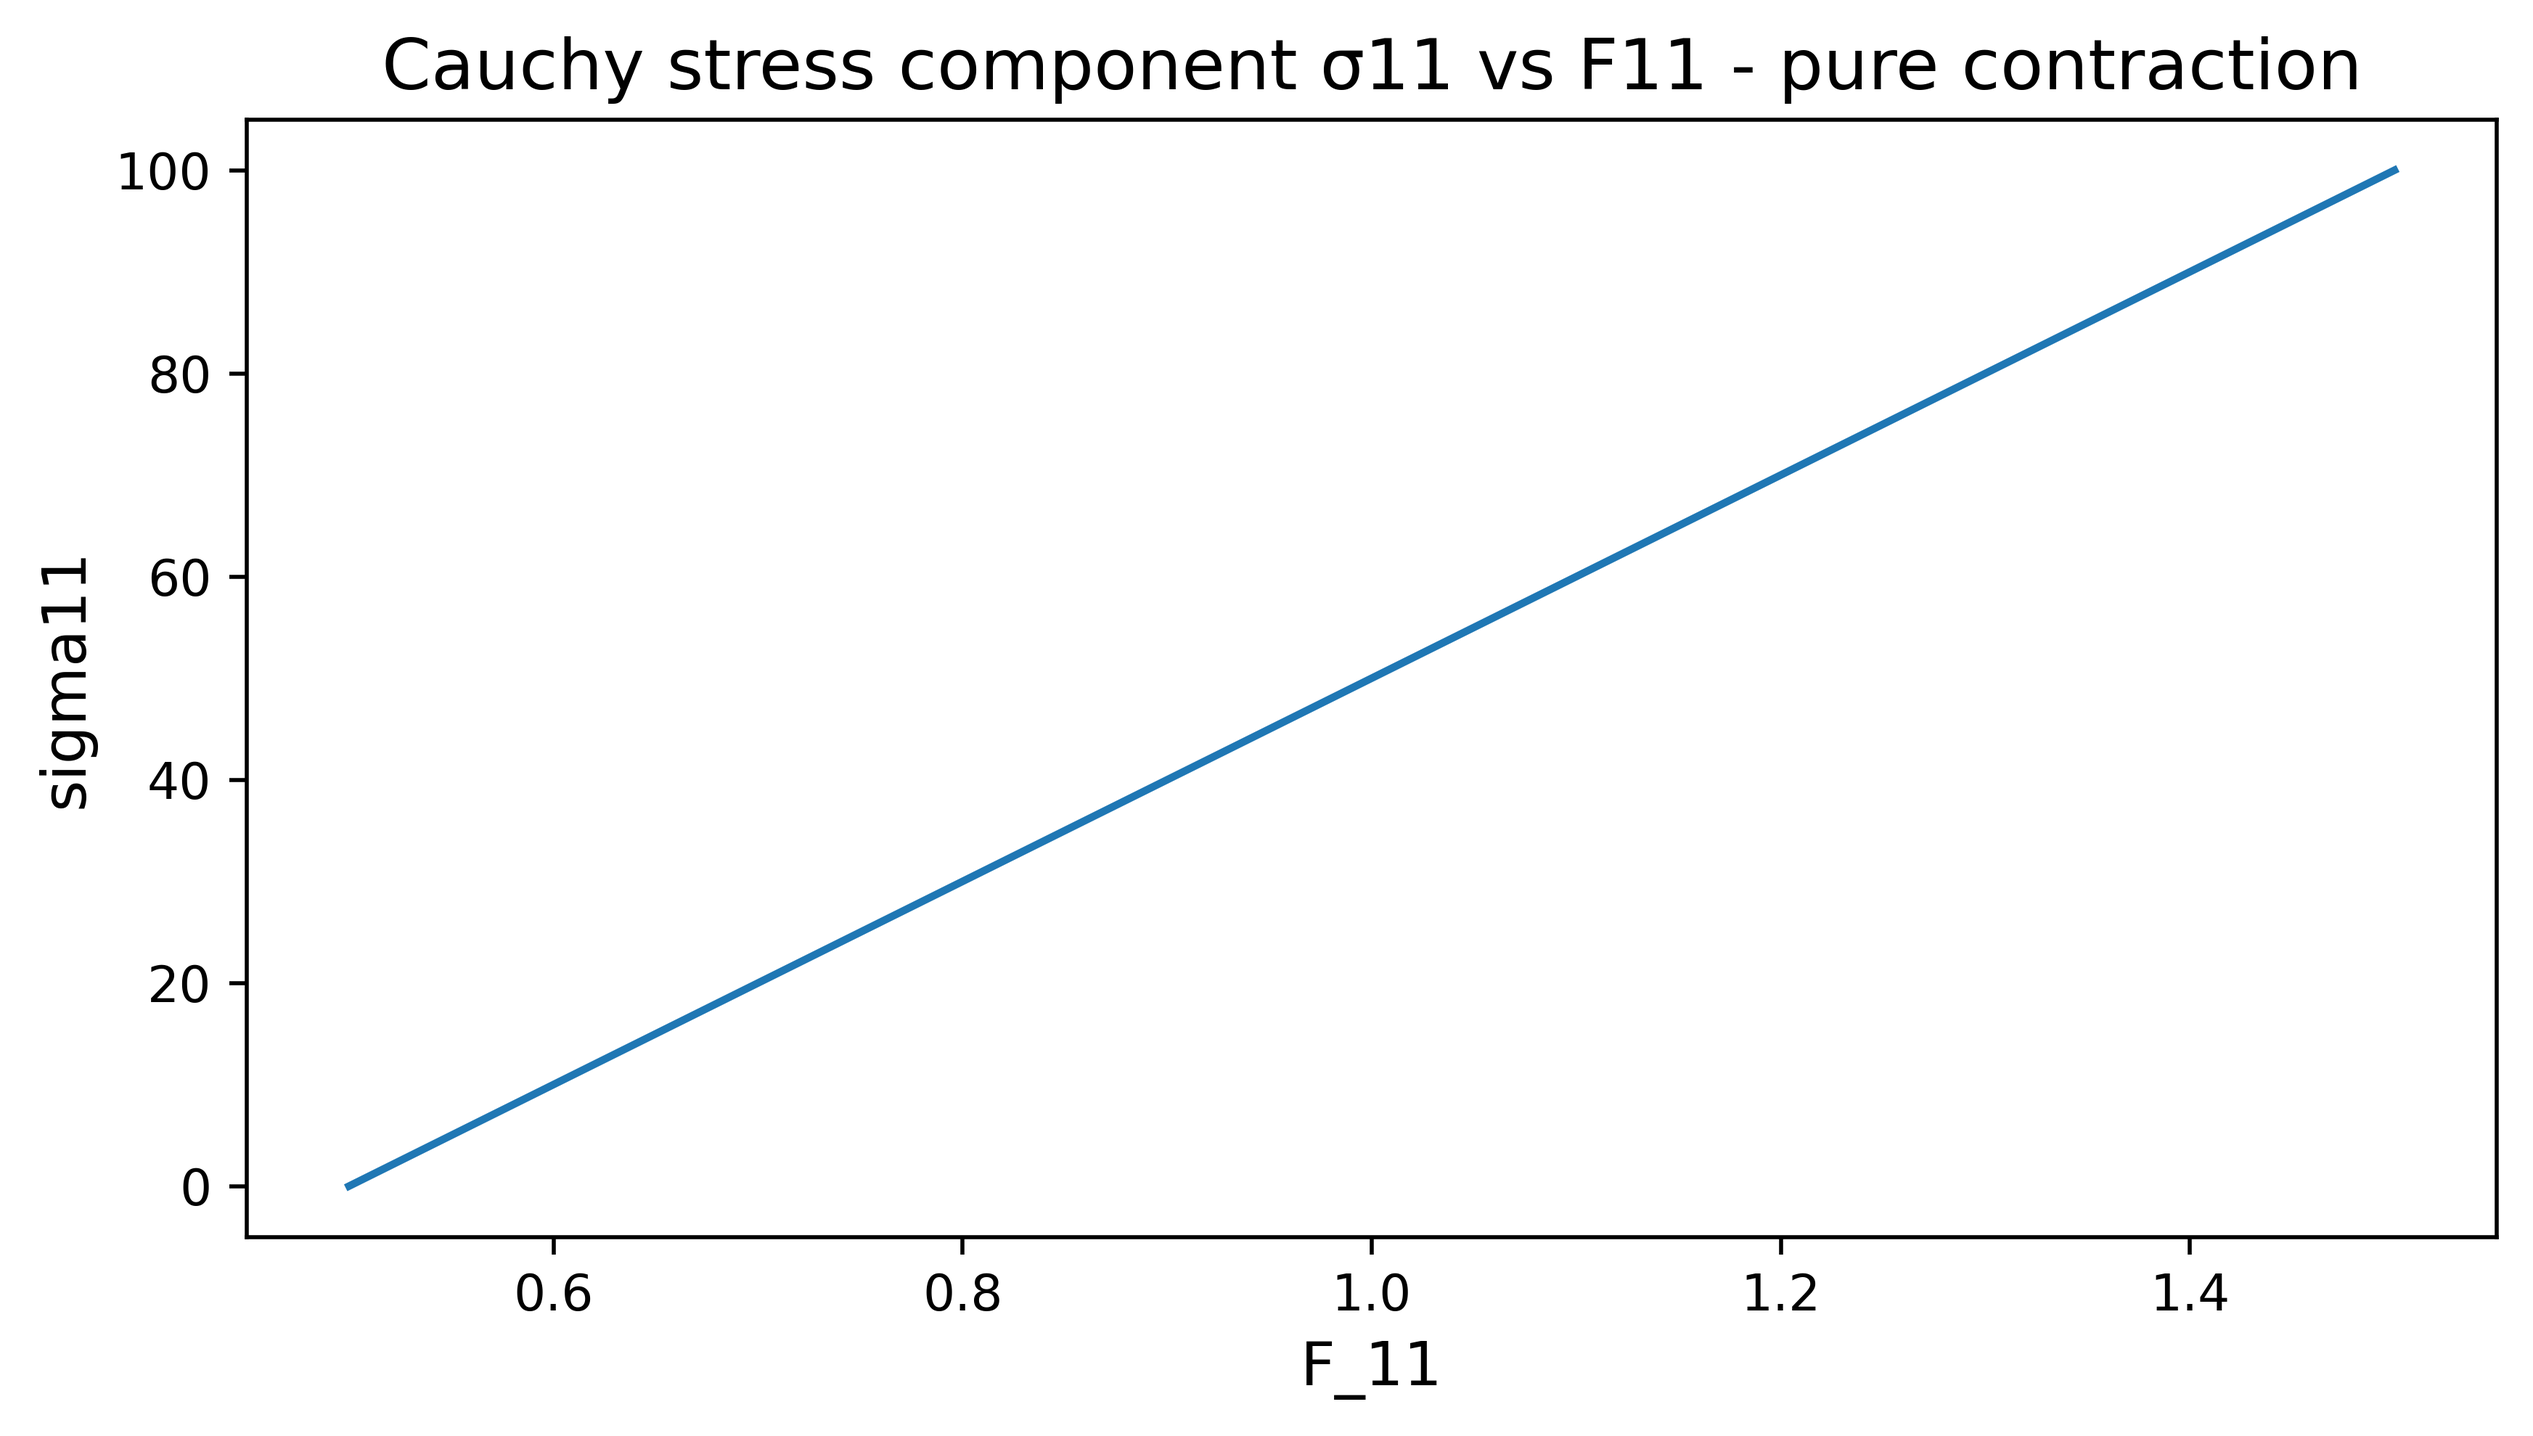
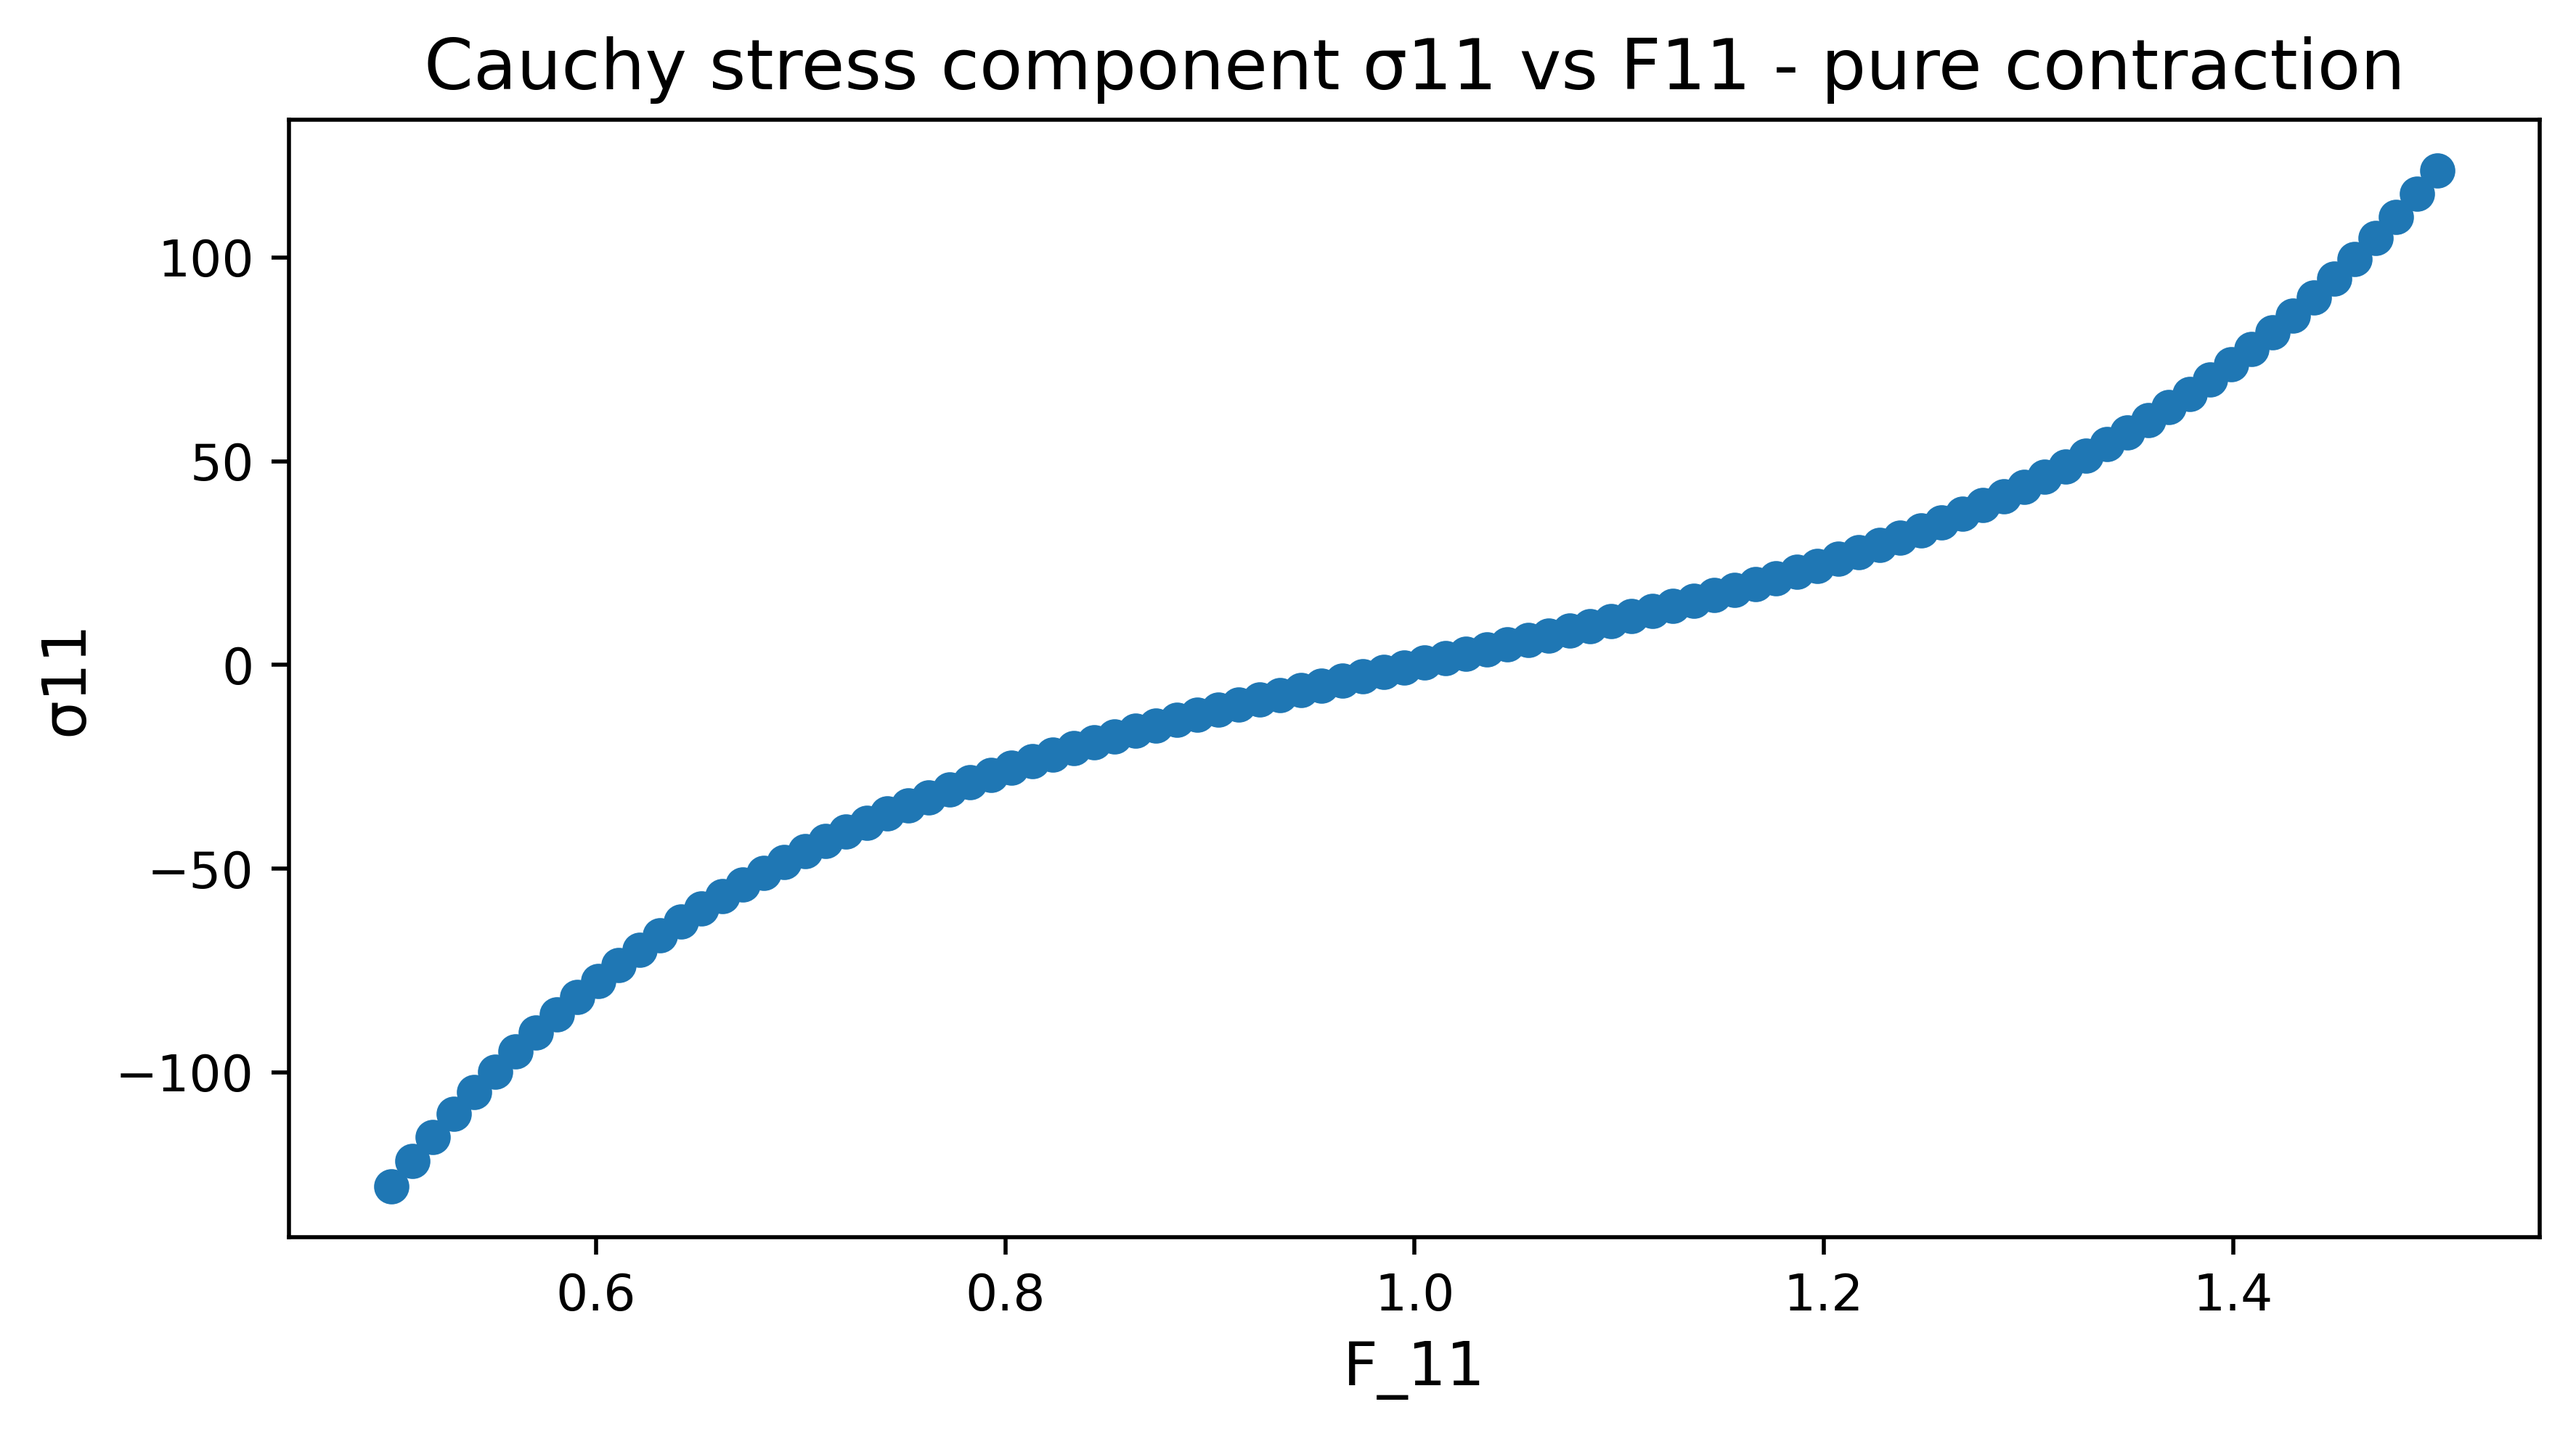
.

diff --git a/TME245/CA1a/testing_CA1a_TME245.py b/TME245/CA1a/testing_CA1a_TME245.py
@@ -575,7 +575,7 @@ new_subtask('Task 2 b) - Yeoh hyperelsatic material model')
 # ------------------------------------------------------------------
 F_11_min = 0.5
 F_11_max = 1.5
-F_11_list = np.linspace(F_11_min, F_11_max, 100)
+F_11_vals = np.linspace(F_11_min, F_11_max, 100)
 placeholder_sigma11_list = np.linspace(0, 100, 100)
 
 G_val = E_val / (2 * (1 + nu_val))
@@ -614,8 +614,8 @@ def generate_yeoh_functions():
     
     A = P.jacobian(Fv)
 
-    P_func = sp.lambdify((Fv), P, modules="numpy")
-    A_func = sp.lambdify((Fv), A, modules="numpy")
+    P_func = sp.lambdify(Fv, P, modules="numpy")
+    A_func = sp.lambdify(Fv, A, modules="numpy")
     
     return P_func, A_func
 
@@ -655,7 +655,7 @@ def generate_neohooke_functions():
     # Python indices: (0,0), (1,1), (0,1), (1,0)
     Pv = sp.Matrix([P[0,0], P[1,1], P[0,1], P[1,0]])
 
-    P_NH_func = sp.lambdify((Fv), Pv, modules='numpy')
+    P_func = sp.lambdify(Fv, Pv, modules='numpy')
 
     # MATLAB: dPvdFv=sym(dPvFv,[4,4], real )
     # Loop i=1:4 ... gradient(Pv(i),Fv)
@@ -663,9 +663,9 @@ def generate_neohooke_functions():
     # In SymPy, we can calculate the Jacobian matrix directly without a loop
     dPvdFv = Pv.jacobian(Fv)
 
-    dPdF_NH_func = sp.lambdify((Fv), dPvdFv, modules='numpy')
+    dPdF_func = sp.lambdify(Fv, dPvdFv, modules='numpy')
 
-    return P_NH_func, dPdF_NH_func
+    return P_func, dPdF_func
 
 # --- Usage Example ---
 # calc_P, calc_dPdF = generate_deformation_gradient_functions()
@@ -707,25 +707,106 @@ def generate_neohooke_functions():
 # ------------------------------------------------------------------
 # Generate the functions once
 # ------------------------------------------------------------------
+
+
 P_Yeoh_func, A_Yeoh_func = generate_yeoh_functions()
 P_Neo_func, A_Neo_func = generate_neohooke_functions()
 
 
+def get_material_parameters():
+    E = 20.0
+    nu = 0.45
+    
+    # Lame parameters
+    mu = E / (2 * (1 + nu))
+    lam = (E * nu) / ((1 + nu) * (1 - 2 * nu))
+    
+    # Yeoh parameters (derived from G=mu)
+    # c10 = G/2, c20 = -G/10, c30 = G/30
+    G = mu
+    c10 = G / 2.0
+    c20 = -G / 10.0
+    c30 = G / 30.0
+    
+    # Compressibility parameters
+    D1 = 0.02
+    D2 = 0.01
+    D3 = 0.01
+    
+    props_yeoh = {'c10': c10, 'c20': c20, 'c30': c30, 'D1': D1, 'D2': D2, 'D3': D3}
+    props_nh = {'mu': mu, 'lam': lam}
+    
+    return props_yeoh, props_nh
 
+def piola_kirchhoff_stress(F, props, model='yeoh'):
+    # Standard 3x3 kinematics
+    J = np.linalg.det(F)
+    C = F.T @ F
+    C_inv = np.linalg.inv(C)
+    I1 = np.trace(C)
+    
+    if model == 'yeoh':
+        c10, c20, c30 = props['c10'], props['c20'], props['c30']
+        D1, D2, D3 = props['D1'], props['D2'], props['D3']
+        
+        I1_bar = J**(-2/3) * I1
+        
+        # Deviatoric derivatives dW_dev/dI1_bar
+        dW_dI1bar = c10 + 2*c20*(I1_bar - 3) + 3*c30*(I1_bar - 3)**2
+        
+        # Volumetric derivative dW_vol/dJ
+        p = (2/D1)*(J-1) + (4/D2)*(J-1)**3 + (6/D3)*(J-1)**5
+        
+        # S = 2 * ( dev_term + vol_term )
+        # Note: term2 in previous code had factor (p/2) to cancel the 2. 
+        # Here we write it explicitly: S_vol = J * p * C^-1
+        
+        term1 = dW_dI1bar * J**(-2/3) * (np.eye(3) - (1/3)*I1*C_inv)
+        term2 = (p/2) * J * C_inv
+        
+        S = 2 * (term1 + term2)
+        
+    elif model == 'neohooke':
+        mu, lam = props['mu'], props['lam']
+        S = mu * (np.eye(3) - C_inv) + lam * np.log(J) * C_inv
 
-val_yeoh_15 = get_sigma11(1.5, P_Yeoh_func)
-val_nh_15 = get_sigma11(1.5, P_Neo_func, params=(G_val, lam_val))
+    return S
+
+props_yeoh, props_nh = get_material_parameters()
+sigma11_yeoh = []
+sigma11_nh = []
+
+for f11 in F_11_vals:
+    # Pure Elongation (Uniaxial Strain): F22 = 1, F33 = 1
+    # No root finding needed!
+    F = np.diag([f11, 1.0, 1.0])
+    
+    # --- Yeoh ---
+    S_y = piola_kirchhoff_stress(F, props_yeoh, model='yeoh')
+    J = np.linalg.det(F)
+    # Cauchy Stress: sigma = 1/J * F * S * F^T
+    sig_y = (1/J) * F @ S_y @ F.T
+    sigma11_yeoh.append(sig_y[0,0])
+    
+    # --- Neo-Hooke ---
+    S_nh = piola_kirchhoff_stress(F, props_nh, model='neohooke')
+    sig_nh = (1/J) * F @ S_nh @ F.T
+    sigma11_nh.append(sig_nh[0,0])
+
+# Convert to arrays
+sigma11_Yeoh_vals = np.array(sigma11_yeoh)
+sigma11_Neo_vals = np.array(sigma11_nh)
 
 printt('Validate results:')
-print(f'Yeoh sigma11: {val_yeoh_15:.4e} MPa (Ref: 1.2142e02)')
-print(f'Neo-Hooke sigma11:   {val_nh_15:.4e} MPa (Ref: 2.2525e01)')
+print(f'Yeoh sigma11: {sigma11_Yeoh_vals[-1]:.4e} MPa (Ref: 1.2142e02)')
+print(f'Neo-Hooke sigma11:   {sigma11_Neo_vals[-1]:.4e} MPa (Ref: 2.2525e01)')
 
 # ------------------------------------------------------------------
 # Plot graphs
 # ------------------------------------------------------------------
 title = 'Cauchy stress component σ11 vs F11 - pure elongation'
 plt.figure()
-plt.plot(F_11_list, placeholder_sigma11_list, 'o-')
+plt.plot(F_11_vals, sigma11_Yeoh_vals, 'o-')
 plt.title(title)
 plt.xlabel('F_11')
 plt.ylabel('σ11')
@@ -734,7 +815,7 @@ plt.show()
 
 title = 'Cauchy stress component σ11 vs F11 - pure contraction'
 plt.figure()
-plt.plot(F_11_list, placeholder_sigma11_list, 'o-')
+plt.plot(F_11_vals, sigma11_Yeoh_vals, 'o-')
 plt.title(title)
 plt.xlabel('F_11')
 plt.ylabel('σ11')
